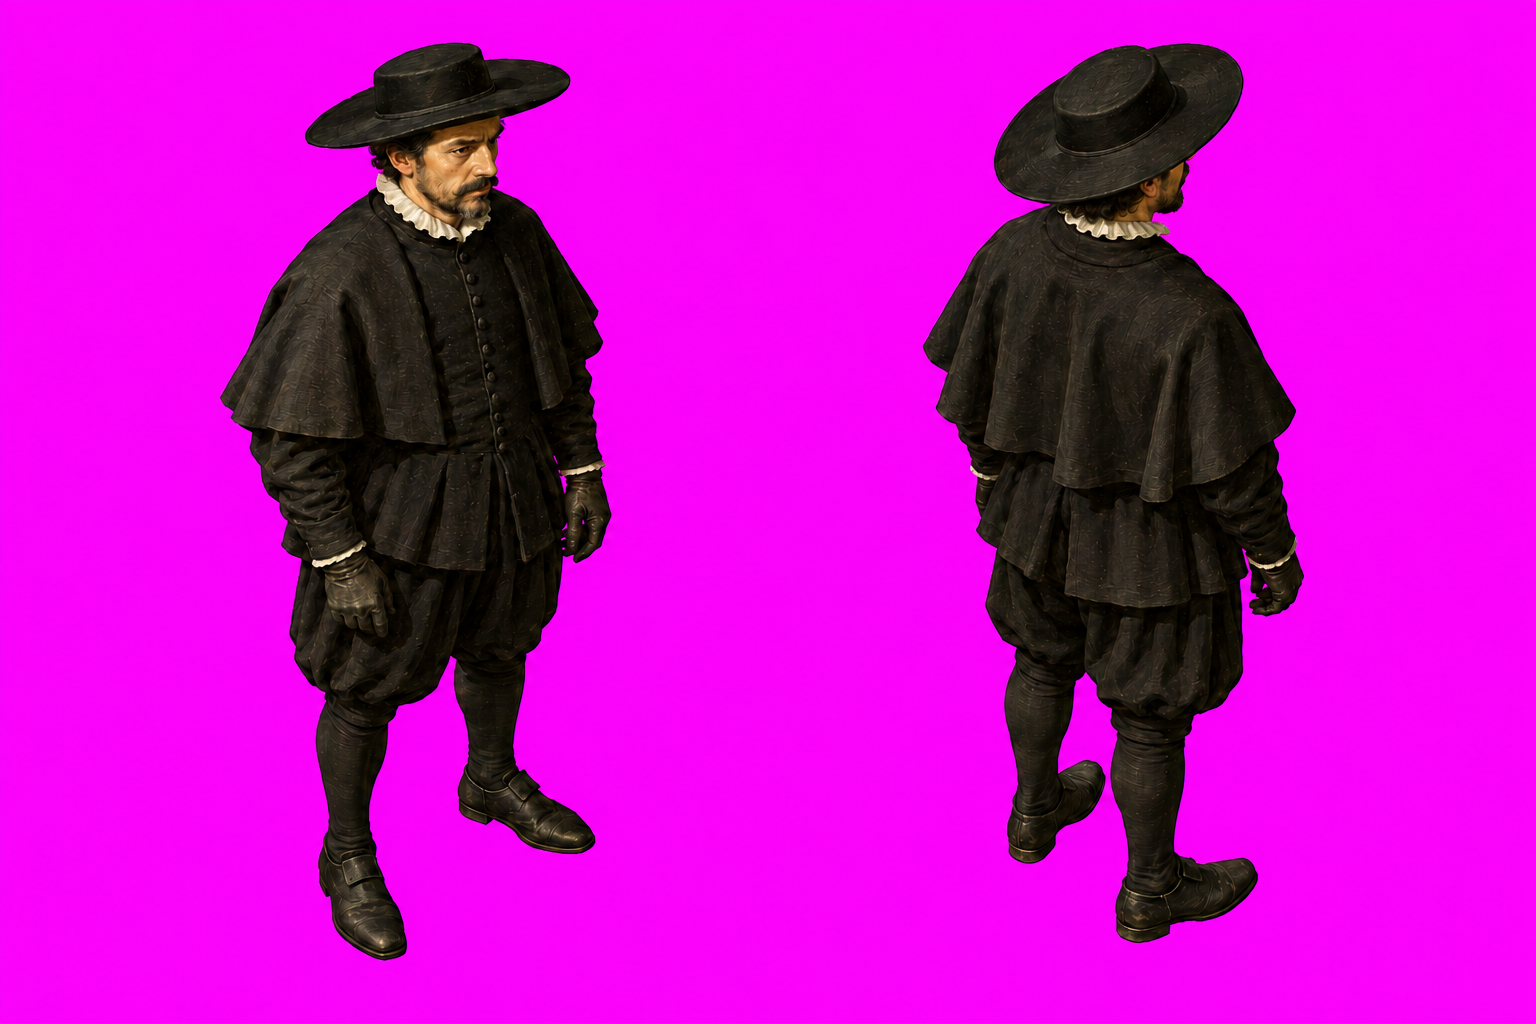
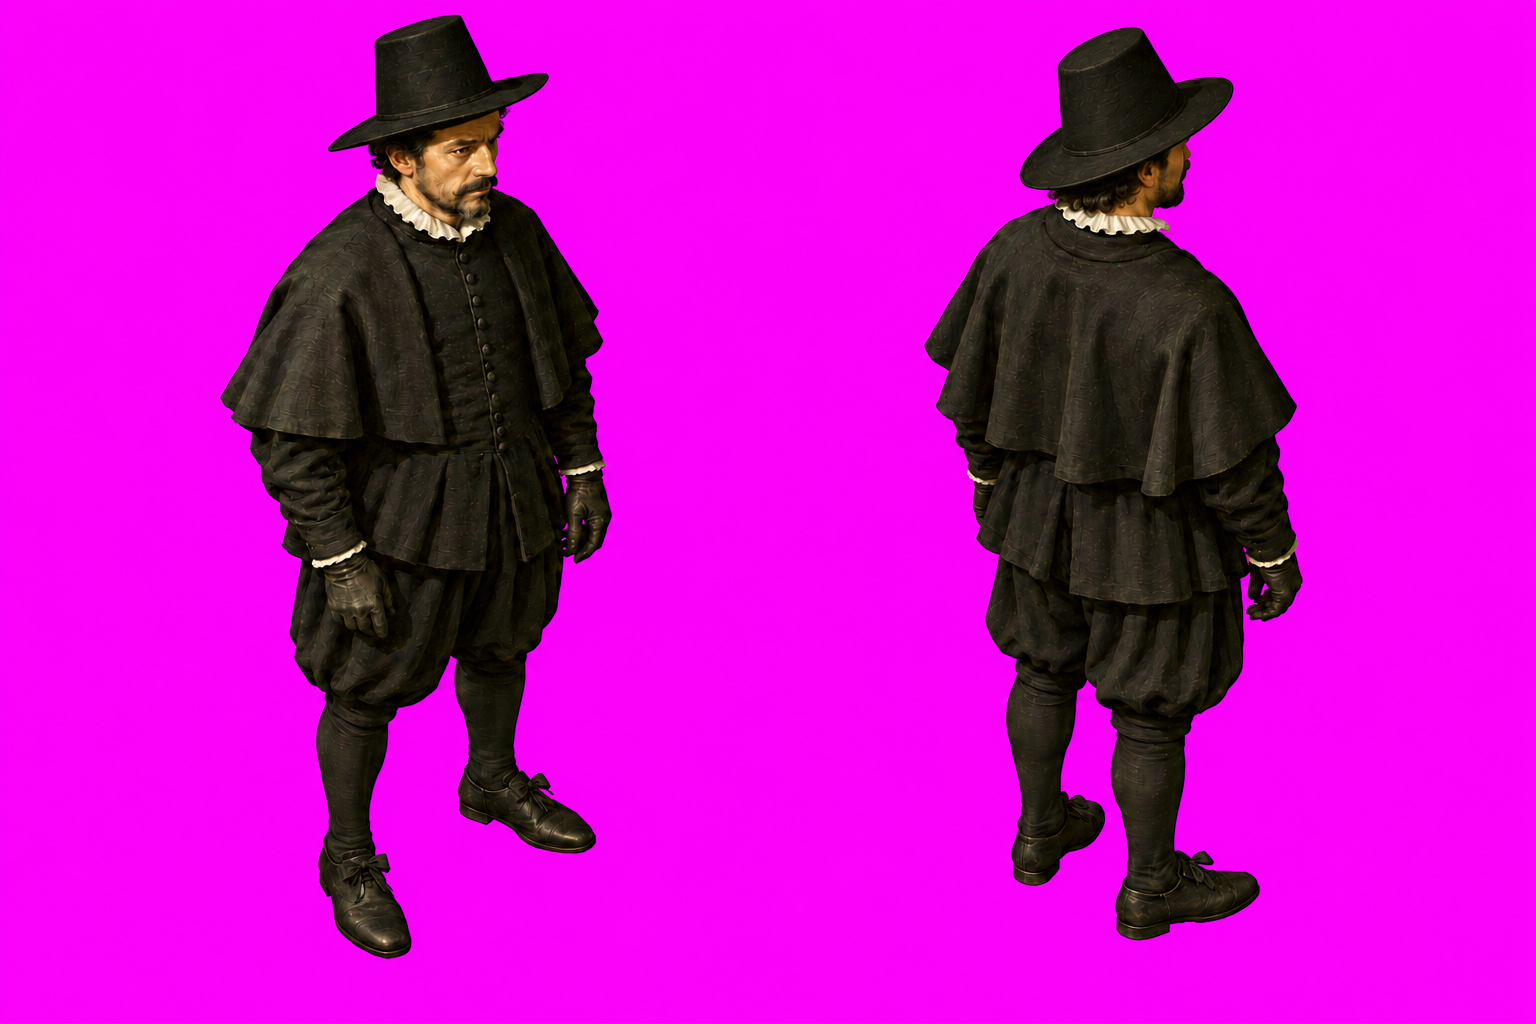
Pesquisidor corregido: sombrero de copa alta, zapatos de lazo y de pie
La versión anterior llevaba un sombrero de copa plana y ala rígida (de jornalero
y de épocas posteriores) y zapatos con hebilla (mediados del XVII). Se procesa a
1,97 m de alto total para que el cuerpo mida lo mismo que antes con la copa más alta.

Claude-Session: https://claude.ai/code/session_01V3PygkCYmhoYvk1KoaBkFa

diff --git a/herramientas/procesar_arte.py b/herramientas/procesar_arte.py
@@ -12,6 +12,10 @@
     python3 herramientas/procesar_arte.py poses entrada.png arte/personajes/x
     (escribe x_se.png y x_ne.png con la misma escala)
 
+  --altura es el alto total, sombrero incluido, así que depende del sombrero: lo que
+  tiene que salir igual en todos es el cuerpo. El pesquisidor, con copa alta, va a 1,97
+  (cuerpo de unos 1,70 m, como con el primer sombrero a 1,92).
+
 Si la imagen ya trae transparencia, se respeta. Si no, se toma como fondo el color
 de las esquinas y se borra todo lo que se le parezca y esté conectado con ellas.
 """
